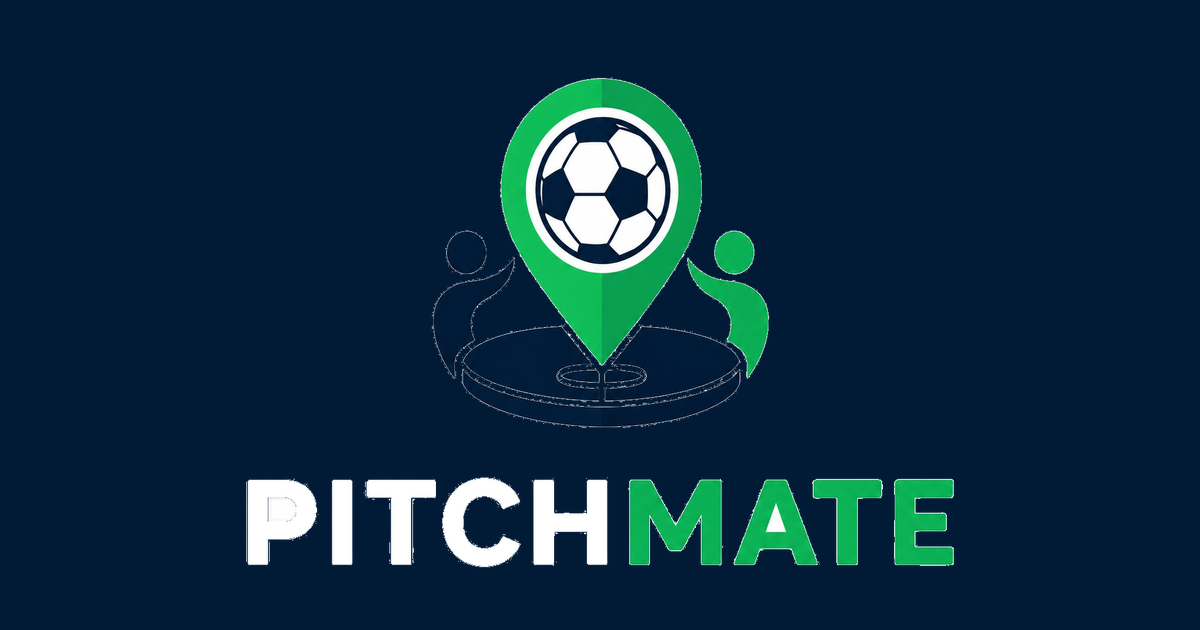
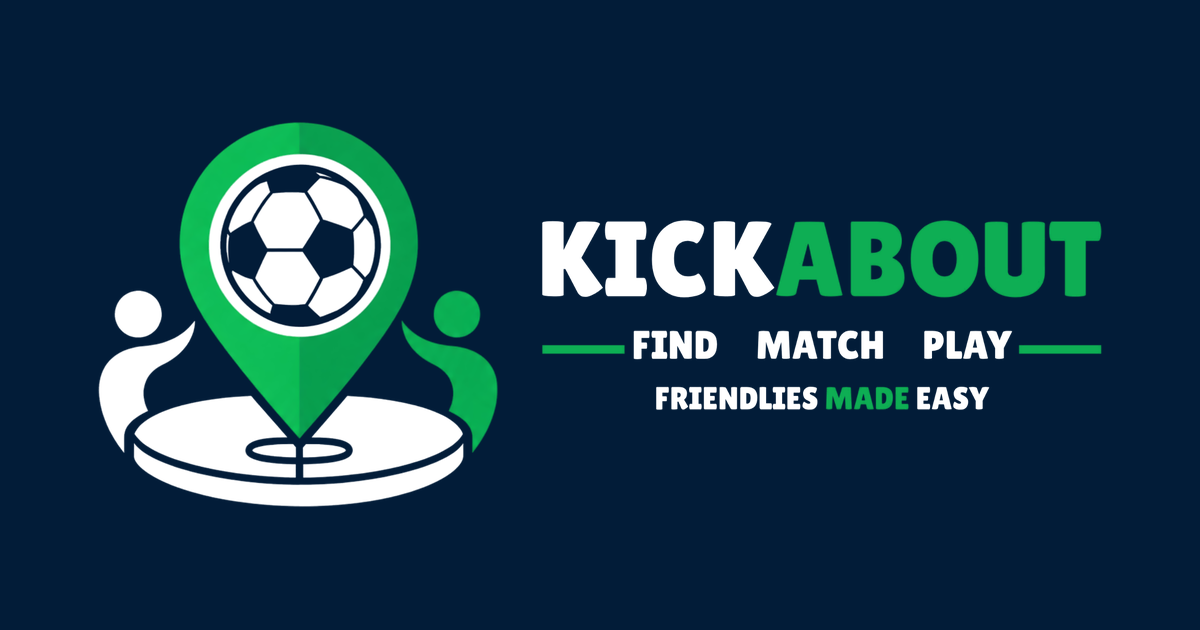
Rebrand PitchMate to Kickabout
Swap the favicons, PWA icons, apple-touch icon, OG image and in-app logo
marks for ones generated from the new Kickabout logo, and rename
PitchMate to Kickabout in the page title, manifest and app UI.

Claude-Session: https://claude.ai/code/session_01JPybygrtkizpukrRNWQWcD

Changed region(s): [[0.0617, 0.1206, 0.925, 0.9048], [0.7708, 0.5127, 0.925, 0.573]]

diff --git a/src/components/BrandHeader.tsx b/src/components/BrandHeader.tsx
@@ -5,19 +5,19 @@ interface BrandHeaderProps {
   tagline?: 'full' | 'compact' | 'none';
 }
 
-/** Icon + "PitchMate" wordmark, shared across the welcome, sign-in and register pages. */
+/** Icon + "Kickabout" wordmark, shared across the welcome, sign-in and register pages. */
 export function BrandHeader({ size = 56, tagline = 'compact' }: BrandHeaderProps) {
   const theme = useTheme();
   const mark = theme.palette.mode === 'dark' ? '/icon-mark-reversed-transparent.png' : '/icon-mark-transparent.png';
   return (
     <Stack spacing={1} sx={{ alignItems: 'center', textAlign: 'center' }}>
-      <Box component="img" src={mark} alt="PitchMate" sx={{ width: size, height: size, objectFit: 'contain' }} />
+      <Box component="img" src={mark} alt="Kickabout" sx={{ width: size, height: size, objectFit: 'contain' }} />
       <Typography variant="h5" sx={{ fontWeight: 800, letterSpacing: 0.3 }}>
         <Box component="span" sx={{ color: 'secondary.main' }}>
-          Pitch
+          Kick
         </Box>
         <Box component="span" sx={{ color: 'primary.main' }}>
-          Mate
+          about
         </Box>
       </Typography>
       {tagline !== 'none' && (

diff --git a/index.html b/index.html
@@ -11,14 +11,14 @@
     <meta name="theme-color" content="#EEF1F5" media="(prefers-color-scheme: light)" />
     <meta name="theme-color" content="#0B1626" media="(prefers-color-scheme: dark)" />
     <meta name="viewport" content="width=device-width, initial-scale=1.0" />
-    <title>PitchMate</title>
+    <title>Kickabout</title>
     <meta name="description" content="Find, arrange and manage grassroots football friendlies." />
     <meta property="og:type" content="website" />
-    <meta property="og:title" content="PitchMate" />
+    <meta property="og:title" content="Kickabout" />
     <meta property="og:description" content="Find, arrange and manage grassroots football friendlies." />
     <meta property="og:image" content="/og-image.png" />
     <meta name="twitter:card" content="summary_large_image" />
-    <meta name="twitter:title" content="PitchMate" />
+    <meta name="twitter:title" content="Kickabout" />
     <meta name="twitter:description" content="Find, arrange and manage grassroots football friendlies." />
     <meta name="twitter:image" content="/og-image.png" />
     <link rel="preconnect" href="https://fonts.googleapis.com" />

diff --git a/src/layouts/AppShell.tsx b/src/layouts/AppShell.tsx
@@ -226,7 +226,7 @@ export function AppShell() {
       <Toolbar sx={{ gap: 1 }}>
         <Box component="img" src={logoMark} alt="" sx={{ width: 28, height: 28, objectFit: 'contain' }} />
         <Typography variant="h6" sx={{ fontWeight: 700 }}>
-          PitchMate
+          Kickabout
         </Typography>
       </Toolbar>
       <Divider />
@@ -311,7 +311,7 @@ export function AppShell() {
           >
             <Box component="img" src={logoMark} alt="" sx={{ width: 26, height: 26, objectFit: 'contain' }} />
             <Typography variant="subtitle1" sx={{ fontWeight: 800, letterSpacing: '-0.01em' }}>
-              Pitch<Box component="span" sx={{ color: 'primary.main' }}>Mate</Box>
+              Kick<Box component="span" sx={{ color: 'primary.main' }}>about</Box>
             </Typography>
           </Stack>
 

diff --git a/src/components/brand/OnboardingStepper.tsx b/src/components/brand/OnboardingStepper.tsx
@@ -42,7 +42,7 @@ function StepCircle({ active, completed, number }: StepCircleProps) {
 /**
  * Small numbered progress stepper shown at the top of every onboarding page, so the user always
  * knows where they are in the 3-step "Role & club" -> "Team & venue" -> "Availability" wizard.
- * Built on MUI's own Stepper/Step/StepLabel, restyled to match the PitchMate brand colours.
+ * Built on MUI's own Stepper/Step/StepLabel, restyled to match the Kickabout brand colours.
  */
 export function OnboardingStepper({ currentStep }: OnboardingStepperProps) {
   return (

diff --git a/src/layouts/AppShellSidebar.tsx b/src/layouts/AppShellSidebar.tsx
@@ -184,7 +184,7 @@ export function AppShellSidebar() {
       <Toolbar sx={{ gap: 1 }}>
         <Box component="img" src="/icon-mark-reversed-transparent.png" alt="" sx={{ width: 26, height: 26, objectFit: 'contain' }} />
         <Typography variant="subtitle1" sx={{ fontWeight: 800, color: '#fff' }}>
-          Pitch<Box component="span" sx={{ color: brand.lime }}>Mate</Box>
+          Kick<Box component="span" sx={{ color: brand.lime }}>about</Box>
         </Typography>
       </Toolbar>
       <List sx={{ flexGrow: 1, py: 1, overflowY: 'auto' }}>

diff --git a/src/theme/theme.ts b/src/theme/theme.ts
@@ -1,7 +1,7 @@
 import { createTheme } from '@mui/material/styles';
 import type { PaletteMode, Theme } from '@mui/material/styles';
 
-// PitchMate brand system - lifted directly from the approved "PitchMate
+// Kickabout brand system (formerly PitchMate) - lifted directly from the approved "PitchMate
 // Design System" concept: navy (the icon's base ellipse + wordmark) as the
 // structural colour for hero bands and dark surfaces, pitch green (the pin)
 // as the single accent, mist as the page ground, amber/coral reserved for

diff --git a/src/pages/profile/PrivacyPage.tsx b/src/pages/profile/PrivacyPage.tsx
@@ -133,7 +133,7 @@ export function PrivacyPage() {
         <CardContent sx={{ px: { xs: 2, sm: 2.75 }, py: 0.5, '&:last-child': { pb: 0.5 } }}>
           <SettingRow
             title="Download your data"
-            subtitle="Export everything PitchMate holds about your team"
+            subtitle="Export everything Kickabout holds about your team"
             last
             control={
               <Button variant="outlined" size="small" onClick={handleDownload} disabled={!data}>

diff --git a/src/components/SplashScreen.tsx b/src/components/SplashScreen.tsx
@@ -24,11 +24,11 @@ export function SplashScreen() {
       <Box
         component="img"
         src="/icon-mark-reversed-transparent.png"
-        alt="PitchMate"
+        alt="Kickabout"
         sx={{ width: 88, height: 88, objectFit: 'contain', animation: `${spin} 1.4s linear infinite` }}
       />
       <Typography variant="h6" sx={{ color: '#fff', fontWeight: 700, letterSpacing: 0.5 }}>
-        PitchMate
+        Kickabout
       </Typography>
     </Box>
   );

diff --git a/src/pages/profile/HelpPage.tsx b/src/pages/profile/HelpPage.tsx
@@ -112,7 +112,7 @@ export function HelpPage() {
           <Box>
             <Typography sx={{ fontWeight: 700, fontSize: 14 }}>Still stuck?</Typography>
             <Typography sx={{ fontSize: 12.5, color: 'rgba(255,255,255,.72)' }}>
-              Message the PitchMate support team directly.
+              Message the Kickabout support team directly.
             </Typography>
           </Box>
           <Button
